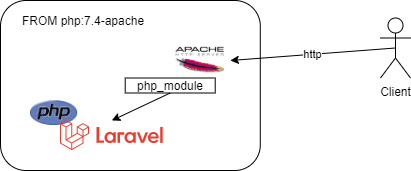
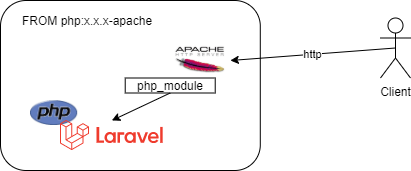
update07

Changed region(s): [[0.2044, 0.0877, 0.3796, 0.1462]]

diff --git a/07_deploy_azure/blog/README.md b/07_deploy_azure/blog/README.md
@@ -2,33 +2,107 @@
 
 ![image](./Azure_Laravel.png)
 
-LaravelアプリをAzureへのデプロイします。
-コンテナ化することでデプロイ先を選択
+LaravelアプリケーションをAzureへデプロイする方法について調査した結果をブログとして纏めておきます。
 
+Laraveにはdocker-composeを利用したSailと呼ばれる環境構築ツールがありますが、こちらはあくまで開発環境向けということで今回は本番・運用環境はどうするのかという観点での検証です。
 
+## (簡単に) Laravel とは
 
+Javaの`SpringBoot` や NodeJSの`express` などと同じようにWEBのフルスタックのフレームワーク。フルスタックのWEBアプリとしてだけでなく、APIサーバーとしても利用可能。
 
-## Laravelのコンテナイメージについて
-LaravelにはWEB Serverが必要になります。
+(良いとこ)
+WEB開発で必要なものが一通りそろっており日本語のドキュメントも非常に充実しています。
+よく利用されるRDB(MySQL,Postgres,SQLServer)やCache(Redis)を利用する仕組みが整っている。
+認証・認可の仕組みや並列処理を行うためのQueueの仕組みが整っている。
+
+(悪いとこ)
+特別悪いところは見当たらないが、ネットを検索していると他の言語に比べると処理が遅いという評価があるので、性能要件が極端に厳しいシステムには向いてなさそうですね(リアルタイム処理を求められる処理やIoTには向かない)。一般的なWEBのシステムでは問題ではないでしょう。
+
+## コンテナ化
+コンテナ化は必須ではないですが、スケーリングや開発環境の保守という観点で今回はコンテナ化します。
+
+本番・運用環境のLaravelにはWEB Serverが必要になり
 1. Apapche
 1. Nginx
-がよく利用されます。
+がよく利用されます。これらを含めたイメージを作成する必要があります。
 
-イメージの作成方法はいろいろありますが、今回は2パターン試しました。
+作成方法はいろいろありますが、今回は2パターン（公式イメージを使った方法）を試しました。
 
-### FROM php:7.4-apache の利用
+### FROM php:x.x.x-apache の利用
+
+Apacheを含めたイメージ(FROM php:8.1.1-apache)をベースにして、
+Laravelのソースコード全体をコンテナに含めます。  
+コンテナに composer(PHPのライブラリ管理ツール) を含めてLaravel自体のインストールをコンテナ内で行います。  
+
+Clientからのリクエスト(http)を受け取った Apache は `php_module` を介してLaravelにアクセスします。
+
 ![image](./laravel_apache_cont_image.png)
 
-今回はApache含めたイメージ(FROM php:7.4-apache)をベースにしました。Apacheは php_module を介してLaravelにアクセスします。
-
-### FROM php:7.4.3-fpm の利用
-![image](./nginx_php-fpm.png)
-
-アプリケーションはRedisとMySQLにアクセスする単純なアプリを作成しました。
-
-php:7.4-apache を利用した dockerfile の例
+dockerfile の例 (`php:8.1.1-apache` を利用)
 ```
-FROM php:7.4-apache
+FROM php:8.1.1-apache
+# 拡張 phpなど
+RUN apt update && apt install -y zlib1g-dev g++ libicu-dev zip libzip-dev zip libpq-dev \
+    && docker-php-ext-install intl opcache pdo_mysql \
+    && pecl install apcu \
+    && docker-php-ext-enable apcu \
+    && docker-php-ext-configure zip \
+    && docker-php-ext-install zip
+
+RUN curl -sS https://getcomposer.org/installer | php -- --install-dir=/usr/local/bin --filename=composer
+
+# laravel アプリのソースをコンテナイメージにコピー
+# .envに秘匿情報がはいっている場合は .dockerignore で除外します。
+COPY ./ /var/www/html/
+
+# laravel等のライブラリーのインストール
+RUN composer install
+# .htaccess
+RUN a2enmod rewrite
+```
+
+### FROM php:x.x.x-fpm の利用
+Nginx と php:x.x.x-fpm を利用します。
+( FPM とは FastCGI Process Manager の略。Laravelアプリとの高速なプロセス間通信実現します。 )
+Nginxを含めたイメージと php-fpmを含めたイメージの２つを用意する。  
+
+![image](./nginx_php-fpm.png)
+Clientからのリクエスト(http)を受け取った Nginx は `fpm (TCP通信)` を介してLaravelにアクセスします。
+
+Nginxイメージ  
+dockerfile の例 (`nginx:1.22-alpine` を利用)
+```
+FROM nginx:1.22-alpine
+COPY default.conf /etc/nginx/conf.d/default.conf
+```
+
+nginxの設定の例  
+fastcgi_pass に php-fpm-server を指定
+```
+server {
+:
+    location / {
+        try_files $uri $uri/ /index.php?$query_string;
+    }
+:
+    # pass the PHP scripts to FastCGI server listening on 127.0.0.1:9000
+    #
+    location ~ \.php$ {
+        #rootをphp-fpmのroot
+        root           /var/www/html/public; ★ 
+        fastcgi_pass   php-fpm-server:9000;　★
+        fastcgi_index  index.php;
+        # $document_root を追加しています
+        fastcgi_param  SCRIPT_FILENAME  $document_root$fastcgi_script_name;
+        include        fastcgi_params;
+    }
+}
+```
+
+php-fpmイメージ  
+dockerfile の例 (`php:8.1.1-fpm` を利用)
+```
+FROM php:8.1.1-fpm
 
 # 拡張 phpなど
 RUN apt update && apt install -y zlib1g-dev g++ libicu-dev zip libzip-dev zip libpq-dev \
@@ -40,12 +114,17 @@ RUN apt update && apt install -y zlib1g-dev g++ libicu-dev zip libzip-dev zip li
 
 RUN curl -sS https://getcomposer.org/installer | php -- --install-dir=/usr/local/bin --filename=composer
 
-#laravel アプリのソースをコンテナイメージにコピー
-COPY ./ /var/www/html/
+# laravel アプリのソースをコンテナイメージにコピー
+# .envに秘匿情報がはいっている場合は .dockerignore で除外します。
+COPY my-laravel-basic/ /var/www/html/
 RUN composer install
-# .htaccess
-RUN a2enmod rewrite
 ```
+
+## アプリケーション概要
+
+アプリケーションはRedisとMySQLにアクセスする単純なアプリを作成しました。
+
+
 ## Laravelアプリのデプロイ先
 
 以下にデプロイしてみました。

diff --git a/06_laravel_container/README.md b/06_laravel_container/README.md
@@ -57,7 +57,7 @@ php:\<version>-apache　と　php-fpm の2パターンを試します。
 `php:7.4-apache` の `/var/www/html/` にソースコードを含めてイメージを作成します。
 ```
 cat Dockerfile
-FROM php:7.4-apache
+FROM php:8.1.1-apache
 :
 COPY ./ /var/www/html/
 :
@@ -65,8 +65,8 @@ COPY ./ /var/www/html/
 
 イメージを作成して起動して動作確認
 ```
-docker build -t acr001example/my-laravel-apache-app .
-docker run --rm -it -p 8080:80 acr001example/my-laravel-apache-app
+docker build -t acr001example/my-laravel-apache-app8 .
+docker run --rm -it -p 8080:80 acr001example/my-laravel-apache-app8
 ```
 
 .env ファイルを環境変数として渡す
